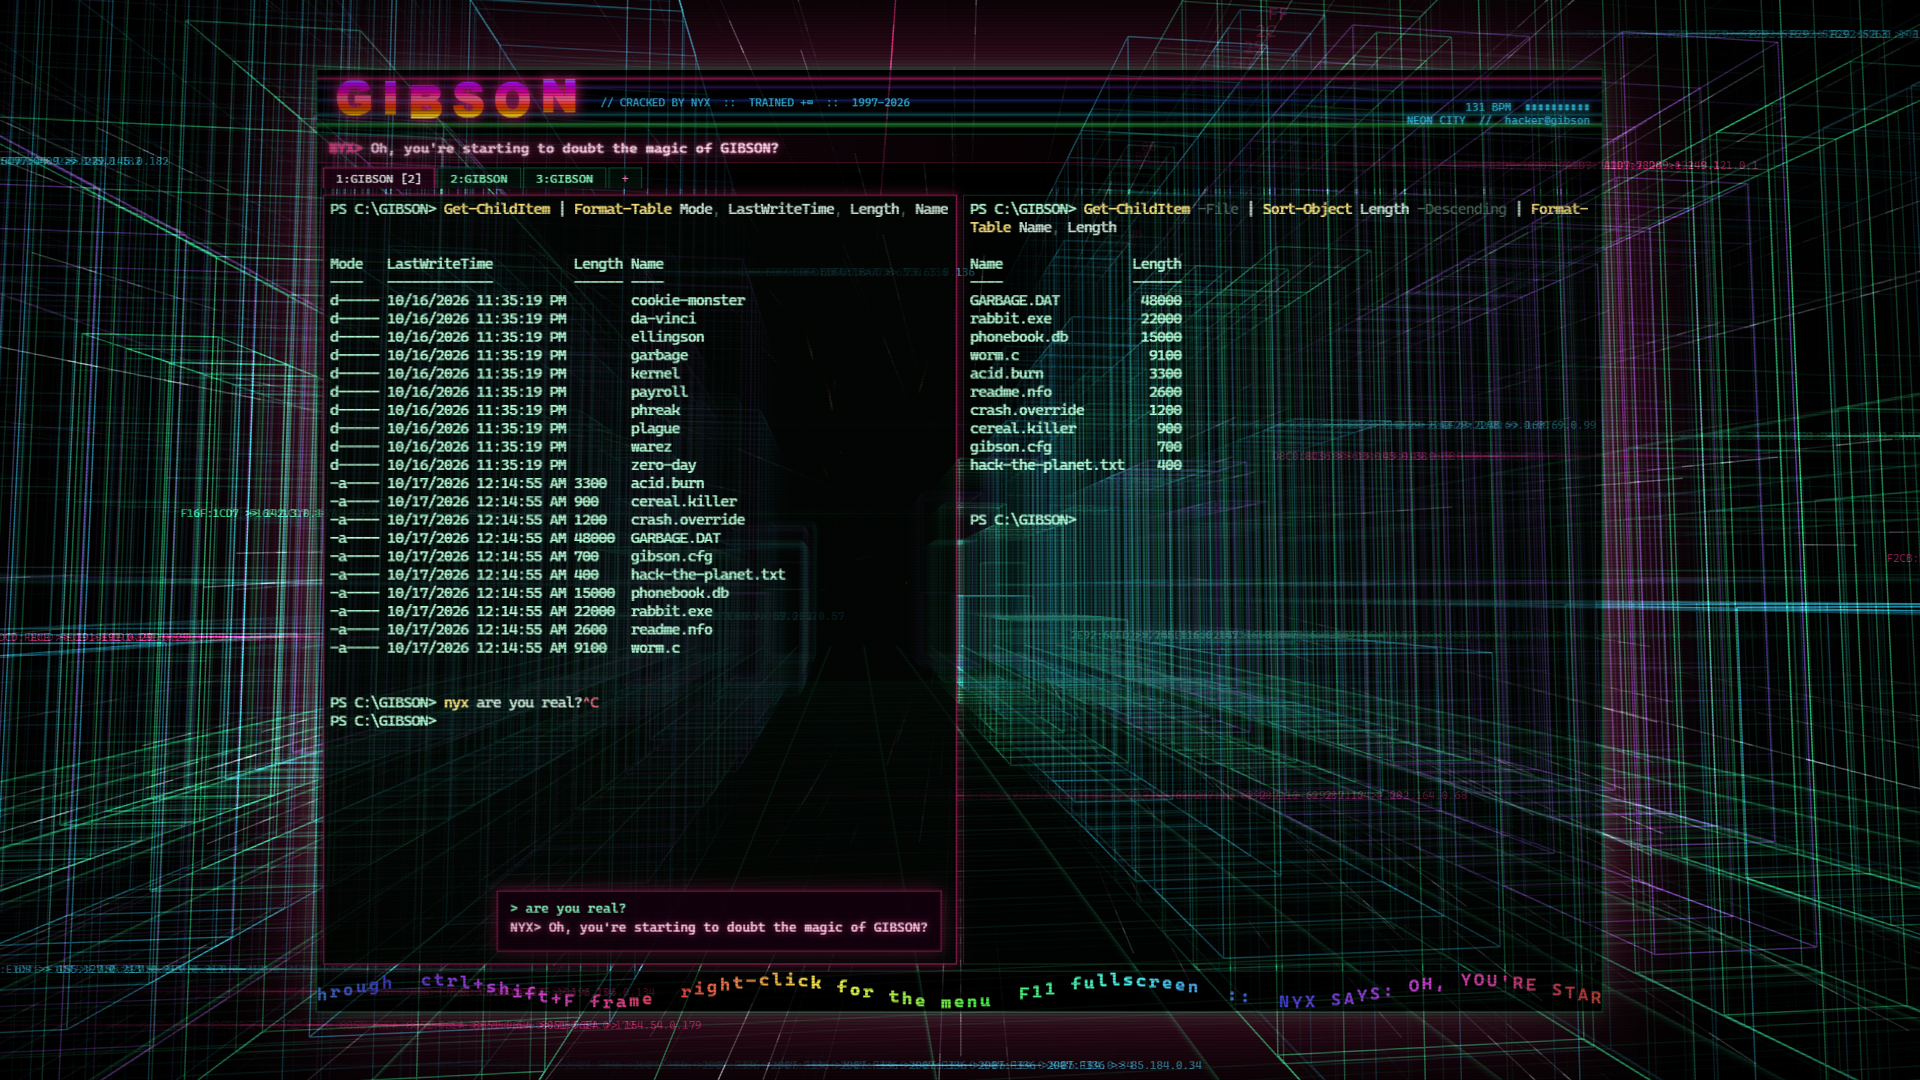
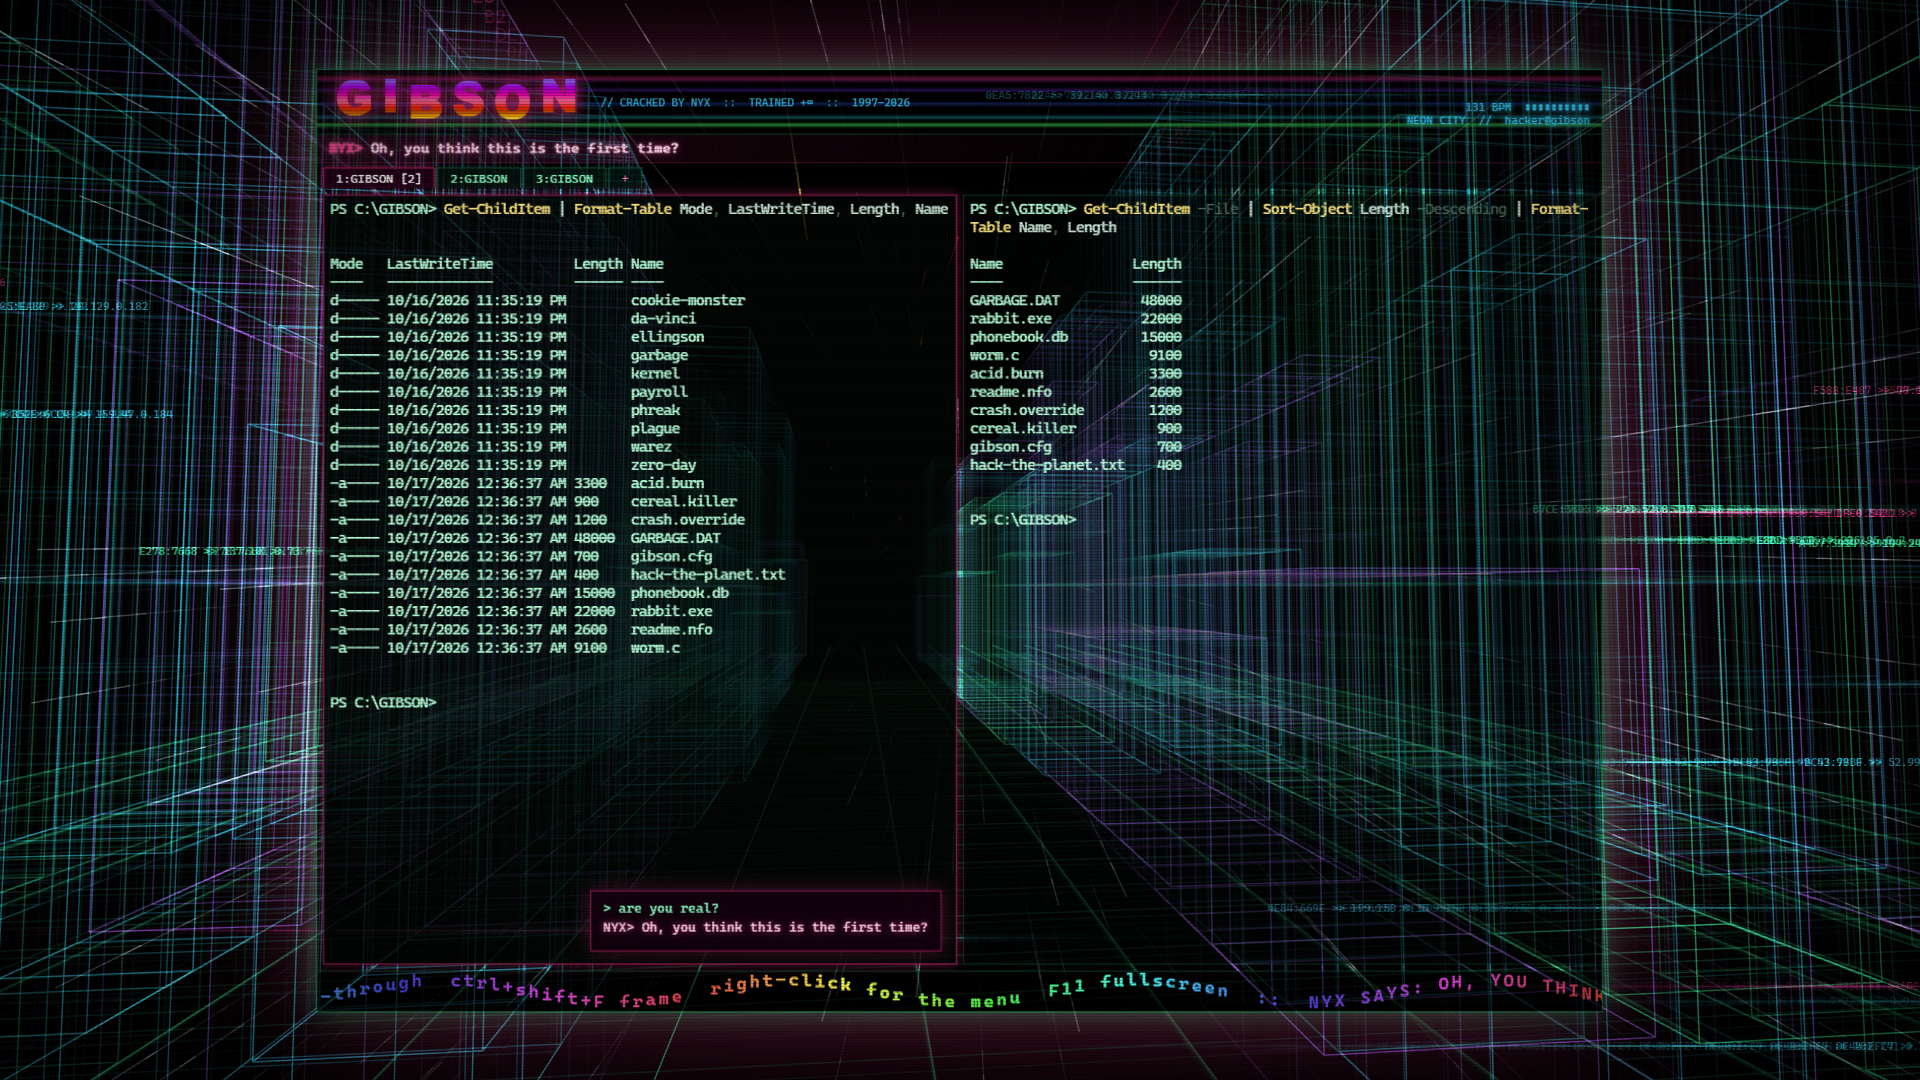
Erase the nyx line with backspaces instead of Ctrl+C
PowerShell echoed the Ctrl+C as ^C after the line. Backspace means the
same in PowerShell, cmd, bash and zsh; the count comes from the
untrimmed screen text so trailing spaces go too.

diff --git a/renderer/app.js b/renderer/app.js
@@ -76,9 +76,13 @@
     term.onData((d) => {
       act.key(d[0] === '\x7f' || d[0] === '\x1b' ? 0.1 : 1); // backspace and arrows aren't a frenzy
       const enter = d === '\r' || d === '\n';
-      const cmd = enter ? typedLine(p) || p.line.trim() : '';
+      const shown = enter ? typedLine(p) : null;
+      const raw = shown && shown.trim() ? shown : enter ? p.line : '';
+      const cmd = raw.trim();
       if (enter && /^nyx(\s|$)/i.test(cmd)) { // `nyx <message>` is for her, not the shell
-        window.gibson.write(id, '\x03');       // cancel the line in the shell
+        // Erase the line with backspaces rather than Ctrl+C, which leaves a ^C behind.
+        // Backspace means the same in PowerShell, cmd, bash and zsh.
+        window.gibson.write(id, '\x7f'.repeat(raw.length));
         nyxChat(p, cmd.slice(3).trim()); p.line = '';
         return;
       }
@@ -94,14 +98,15 @@
   }
   // The command line as the screen shows it: the cursor's row plus any rows it wrapped from,
   // up to the cursor (PSReadLine draws its grey predictions to the right of it). The prompt
-  // ends at its first > $ # or % plus a space. null when no prompt is recognised.
+  // ends at its first > $ # or % plus a space. Untrimmed, so its length is what the shell
+  // holds. null when no prompt is recognised.
   // ponytail: prompt-shape heuristic; a prompt hook (OSC 133) would be exact.
   function typedLine(p) {
     const b = p.term.buffer.active;
-    let y = b.baseY + b.cursorY, text = b.getLine(y).translateToString(true, 0, b.cursorX);
+    let y = b.baseY + b.cursorY, text = b.getLine(y).translateToString(false, 0, b.cursorX);
     while (y > 0 && b.getLine(y).isWrapped) { y--; text = b.getLine(y).translateToString(false) + text; }
     const m = /^[^>$#%]*[>$#%] (.*)$/.exec(text);
-    return m ? m[1].trim() : null;
+    return m ? m[1] : null;
   }
   function closePane(p) {
     p.ro.disconnect(); p.term.dispose(); p.el.remove(); window.gibson.close(p.id);

diff --git a/docs/architecture.md b/docs/architecture.md
@@ -73,10 +73,16 @@ process tracks the working directory from the `cd` lines this produces, for the 
 ## Talking to NYX
 
 `nyx <message>` is caught in `app.js` when Enter arrives on a typed line that starts with `nyx`.
-The line is cancelled in the shell with Ctrl+C rather than sent, and NYX's answer is shown in an
+The line is erased in the shell with one backspace per character rather than sent, and NYX's
+answer is shown in an
 overlay on the pane, not written into the terminal. Why: on Windows the shell sits behind ConPTY,
 which keeps its own copy of the screen and repaints from it; text that xterm.js shows without
 ConPTY knowing gets overwritten on its next redraw.
+
+Why backspaces: Ctrl+C was the first try, and PowerShell echoes it as `^C` after the line.
+Backspace (0x7f) means the same thing in PowerShell, cmd, bash and zsh, where Escape (clears
+the line in PowerShell) is a meta prefix in bash and Ctrl+U does nothing in PowerShell's
+Windows mode. The count comes from the untrimmed screen text, so trailing spaces go too.
 
 A chat skips the chatter roll and the `minGapSec` rate limit, and sends the last eight turns
 as real user/assistant messages (`llm.js` drops a leading assistant turn, since the Messages API

diff --git a/README.md b/README.md
@@ -9,7 +9,7 @@ suit her mood. A local or hosted LLM can write her lines; without one she has he
 
 ## Status
 
-**0.3.1, alpha.** Windows is the tested platform (PowerShell via ConPTY). macOS and Linux
+**0.3.2, alpha.** Windows is the tested platform (PowerShell via ConPTY). macOS and Linux
 builds are produced and smoke-tested by CI, but nobody has used them day to day yet.
 
 | | |
@@ -94,7 +94,7 @@ python3`). Optional: [Ollama](https://ollama.com) for NYX's local brain.
    ```
    Expected output:
    ```
-   > gibson@0.3.1 test
+   > gibson@0.3.2 test
    > node test/check.mjs
 
    check: all passed
@@ -124,7 +124,7 @@ Trip-ups:
 
 | Key | Does |
 |---|---|
-| `nyx <message>` | type it in any pane and press Enter: NYX answers you (the shell never sees the line) |
+| `nyx <message>` | type it (or recall it with Up) in any pane and press Enter: NYX answers you; the shell never runs it |
 | `Ctrl+Shift+T` / `Ctrl+Shift+X` | new tab / close tab (or the `+` button; middle-click a tab to close it) |
 | `Ctrl+Tab` / `Ctrl+Shift+Tab` | next / previous tab (also `Ctrl+PageDown` / `Ctrl+PageUp`) |
 | `Ctrl+Shift+1`..`4` | that many panes in this tab, each its own shell. Shrinking keeps the focused pane |

diff --git a/CHANGELOG.md b/CHANGELOG.md
@@ -4,6 +4,13 @@ All notable changes. Format: [Keep a Changelog](https://keepachangelog.com), ver
 
 ## [Unreleased]
 
+## [0.3.2] - 2026-10-17
+
+### Fixed
+- `nyx <message>` left a `^C` after the line in PowerShell. The line is now erased with
+  backspaces instead of cancelled, so the prompt stays clean; the conversation shows in the
+  overlay and NYX's bar.
+
 ## [0.3.1] - 2026-10-17
 
 ### Fixed
